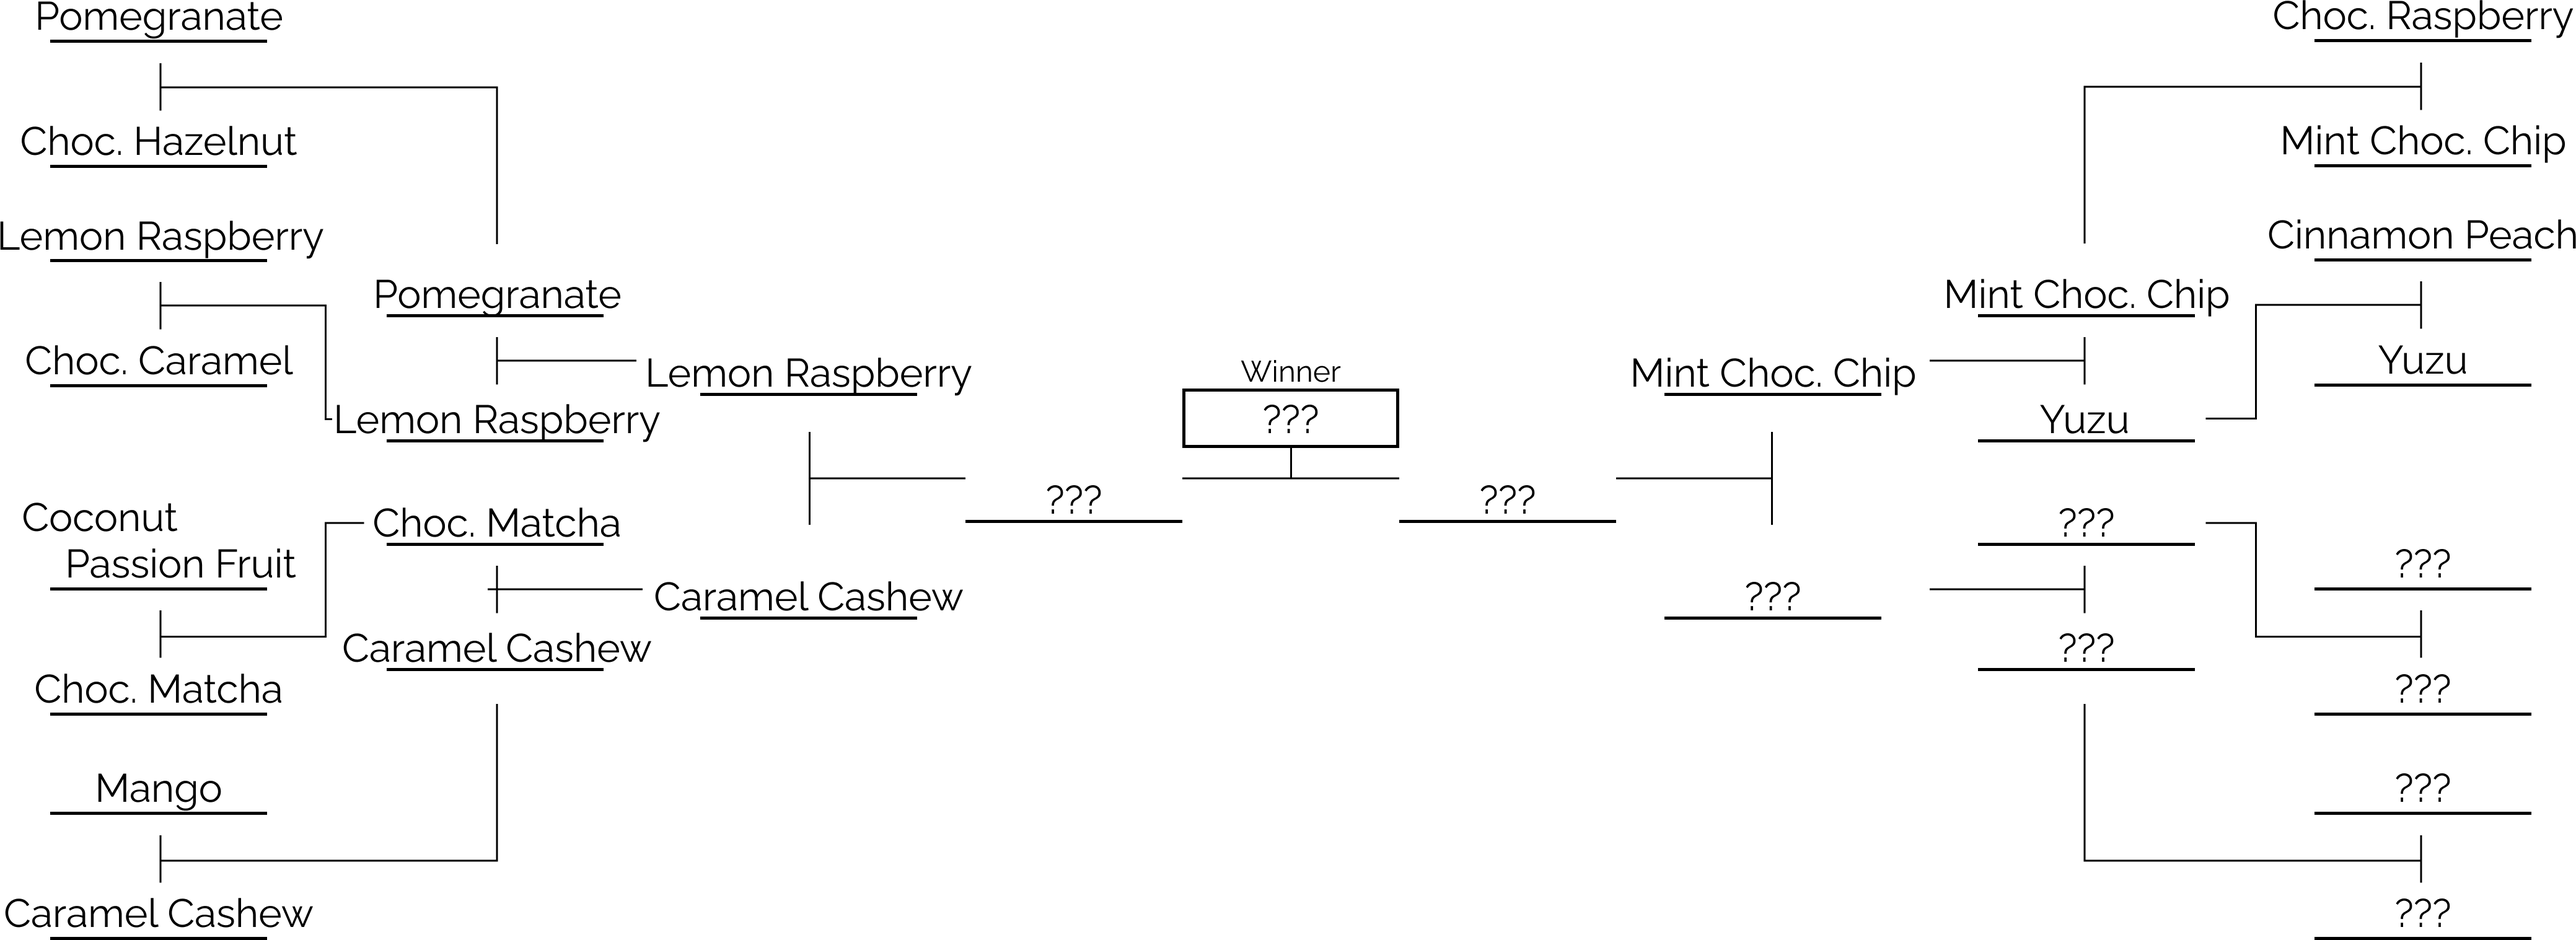
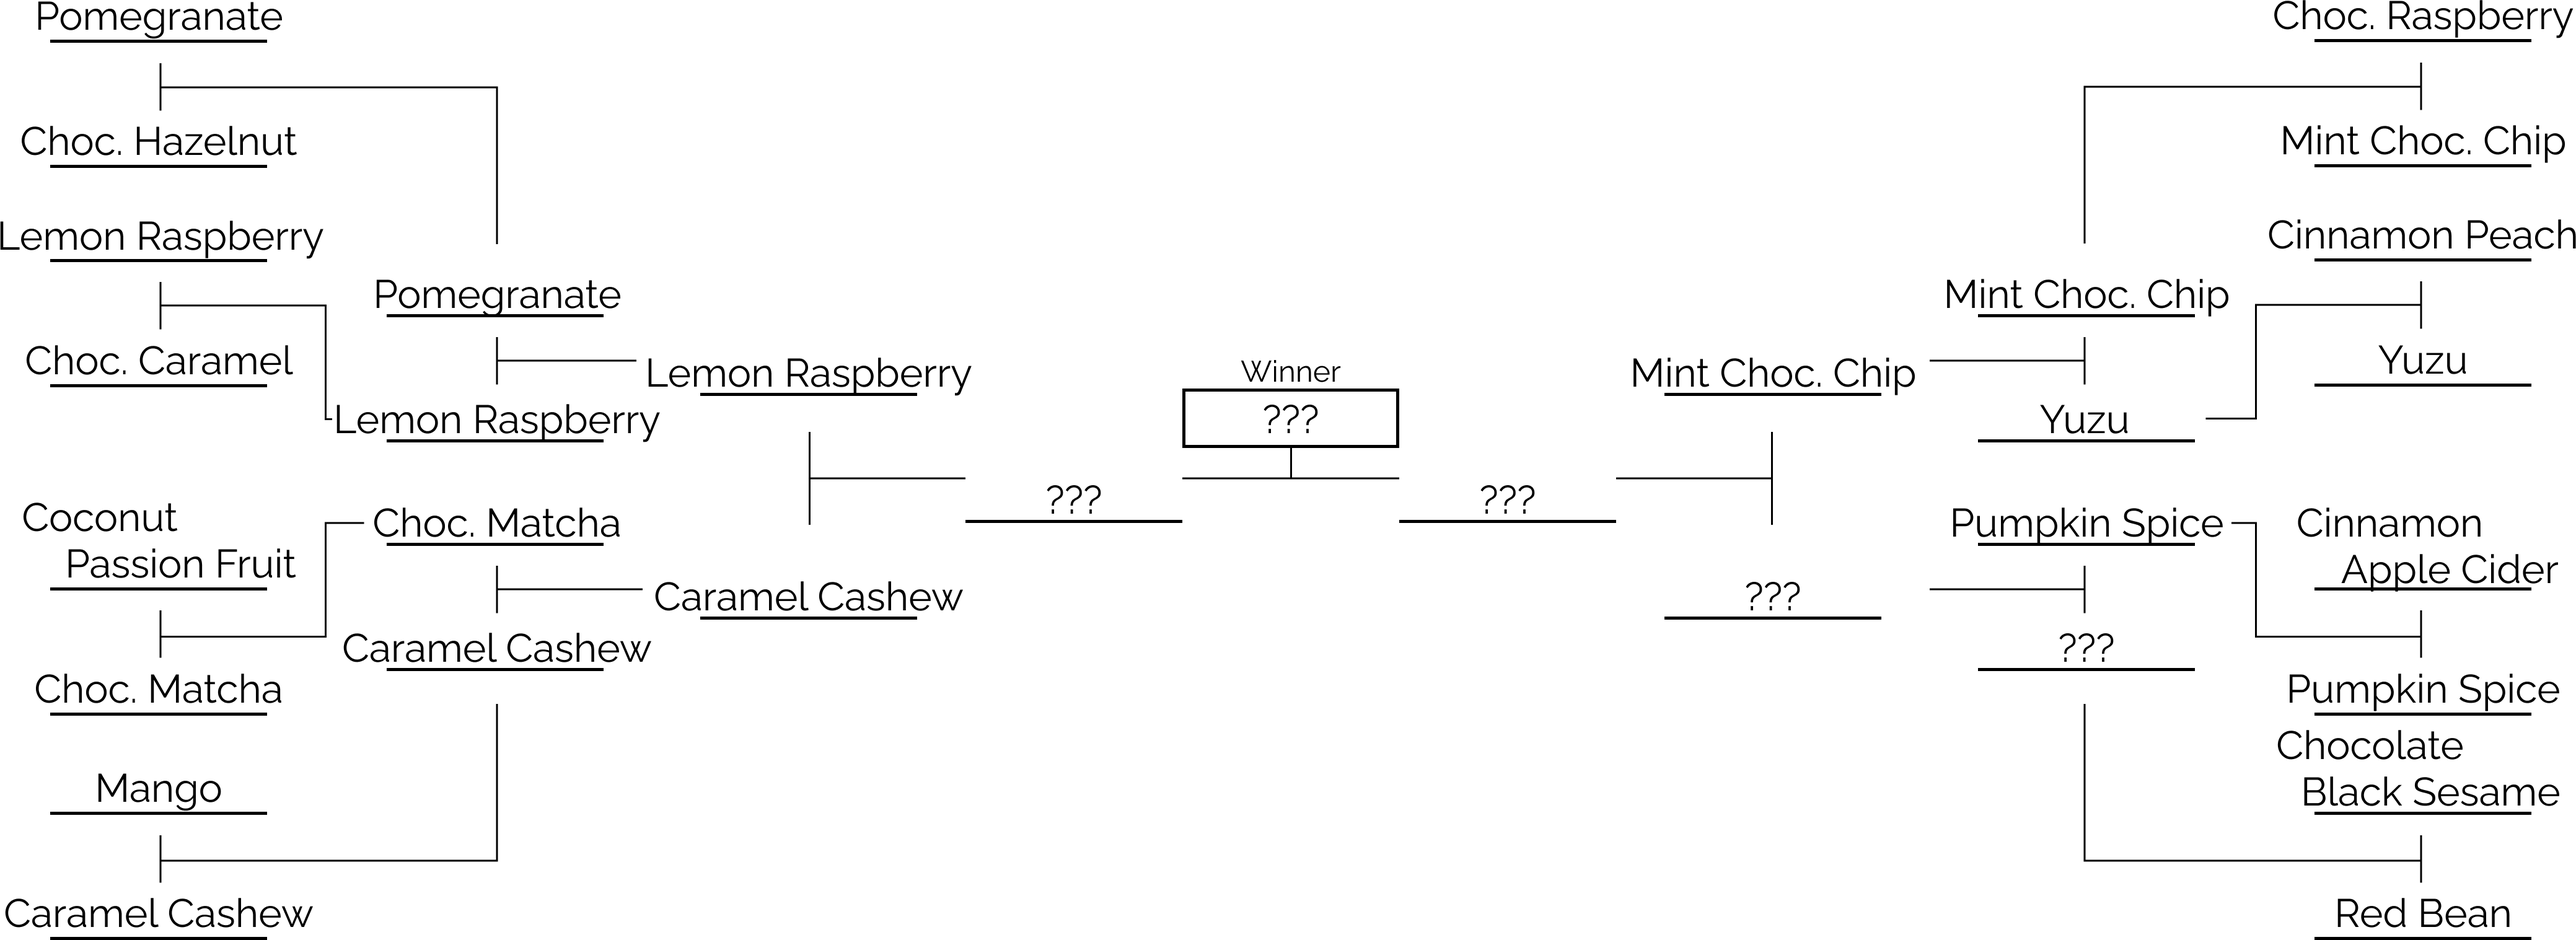
Update - Weekly bracket & flavor update (9/30) (#47)

diff --git a/src/routes/sweet-16/vote.tsx b/src/routes/sweet-16/vote.tsx
@@ -154,10 +154,10 @@ export default function Vote() {
                     />
                     <label for="one" class={`voteOption ${styles.disabled}`}>
                       <img
-                        src="/images/cupcake-graphics/lemon-raspberry.svg"
-                        alt="vote lemon raspberry"
+                        src="/images/cupcake-graphics/red-bean.svg"
+                        alt="vote red bean"
                       />
-                      Lemon Raspberry
+                      Red Bean
                     </label>
                     <input
                       type="radio"
@@ -168,10 +168,10 @@ export default function Vote() {
                     />
                     <label for="two" class={`voteOption ${styles.disabled}`}>
                       <img
-                        src="/images/cupcake-graphics/salted-caramel-cashew.svg"
-                        alt="vote salted caramel cashew"
+                        src="/images/cupcake-graphics/chocolate-black-sesame.svg"
+                        alt="vote chocolate black sesame"
                       />
-                      Salted Caramel Cashew
+                      Chocolate Black Sesame
                     </label>
                   </div>
                   <input

diff --git a/src/routes/farmers-market/index.tsx b/src/routes/farmers-market/index.tsx
@@ -23,8 +23,9 @@ export default function FarmersMarket() {
     [new Date(2023, 7, 26), 'Mint Chocolate Chip & Yuzu'],
     [new Date(2023, 8, 2), 'Chocolate Matcha & Salted Caramel Cashew'],
     [new Date(2023, 8, 9), 'Lemon Raspberry & Salted Caramel Cashew'],
-    [new Date(2023, 8, 23), '???'],
-    [new Date(2023, 9, 7), '???'],
+    [new Date(2023, 8, 16), 'Cinnamon Apple Cider & Pumpkin Spice'],
+		[new Date(2023, 8, 30), 'Chocolate Black Sesame & Red Bean'],
+    [new Date(2023, 9, 14), '???'],
     [new Date(2023, 9, 28), '???'],
     [new Date(2023, 10, 11), '???'],
     [new Date(2023, 10, 18), '???'],
@@ -39,8 +40,7 @@ export default function FarmersMarket() {
             (June-August) and about every other week in the fall
             (September-November).
             <br /> <br />
-            Each week, I bring 5 classic flavors (chocolate, vanilla, and
-            strawberry), as well as 2 rotating special flavors, in both regular
+            Each week, I bring 4 classic flavors (chocolate and vanilla), as well as 2 rotating special flavors, in both regular
             and mini sizes.
             <br /> <br />
             This year I will also be hosting the{' '}

diff --git a/src/routes/sweet-16/index.tsx b/src/routes/sweet-16/index.tsx
@@ -22,7 +22,7 @@ export default function Sweet16() {
         <div class={`${styles.section} ${styles.two}`}>
           <h3>Bracket</h3>
           <p>
-            This week is the the tenth week of the bracket: Lemon Raspberry vs. Salted Caramel Cashew
+            This week is Red Bean and Chocolate Black Sesame are going head to head to see which one will make it on!
           </p>
 
           <br />
